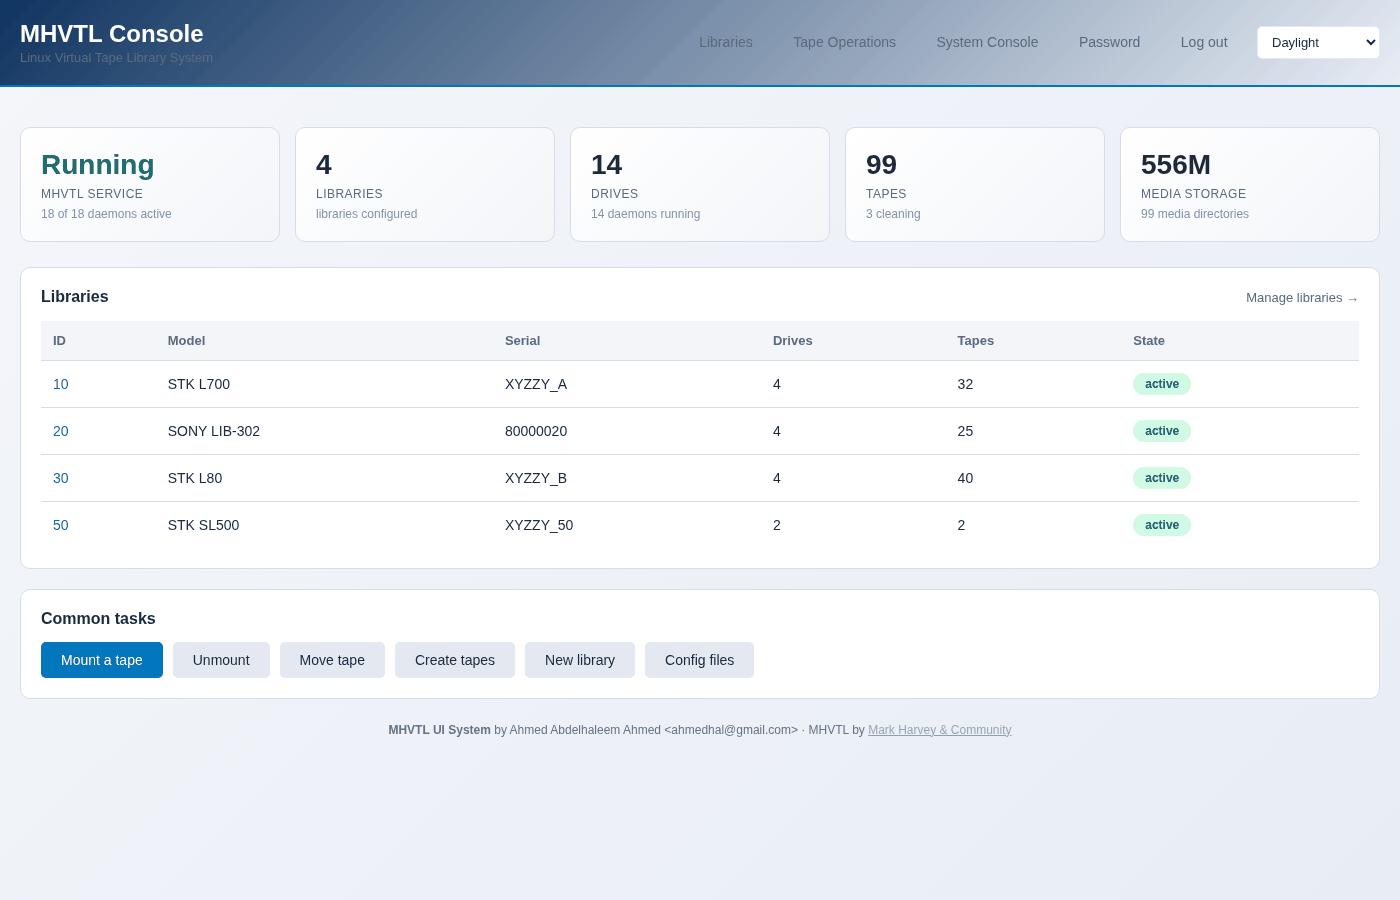
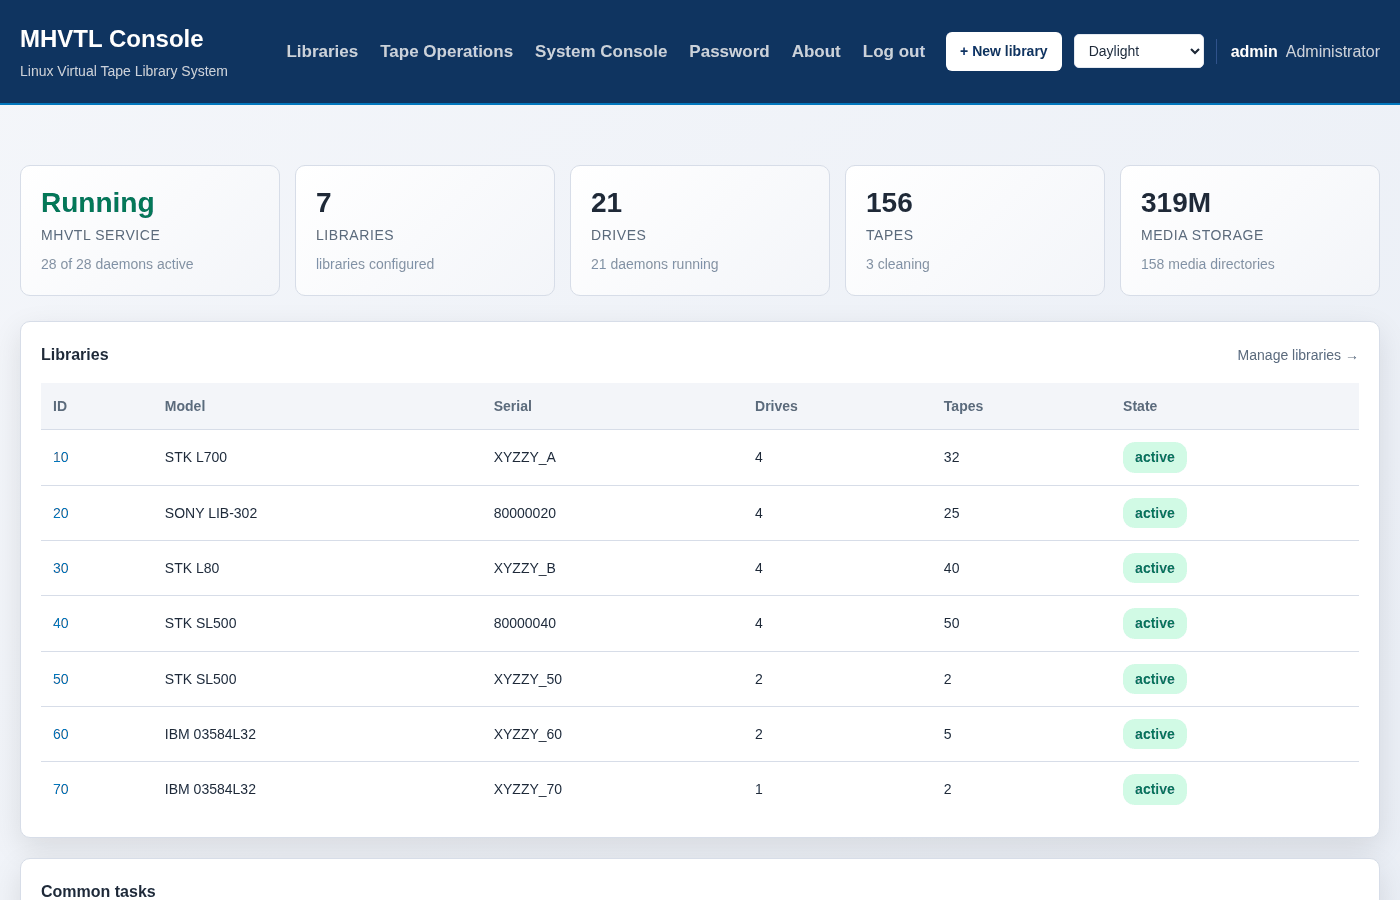
Front page: the current screenshots, and alt texts that match them
The four pictures on the front page are copied from the User Guide's shots
when the site is built. The 3.3.1 rebuild replaced the documentation trees but
not these, so the landing page was still showing September's screenshots - the
console before it was rebuilt onto one page frame - in front of pages that had
all been retaken.

Two alt texts described those old pictures: the dashboard's counts (four
libraries, fourteen drives, ninety-nine tapes) and the writing drive's figures
(173.8 MB, 14.8%). Both now say what is in the picture.

diff --git a/index.html b/index.html
@@ -163,7 +163,14 @@
             <p class="sub reveal">Every library at a glance, one page per library, and each drive while a backup writes to it.</p>
             <div class="shot reveal">
                 <div class="term-bar"><span class="dot r"></span><span class="dot y"></span><span class="dot g"></span><span class="term-title">The dashboard</span></div>
-                <img src="images/dashboard.png" alt="The dashboard: the MHVTL service running, four libraries, fourteen drives, ninety-nine tapes" loading="lazy">
+                <!-- The four screenshots on this page are copied from the User
+                     Guide's own _static/shots/ when the site is built, so the
+                     front page cannot show a picture the guide does not have.
+                     Retake them with docs/_kit/shots.py, and when you do, read
+                     these alt texts: they describe what is in the picture, so
+                     a new screenshot makes them wrong. Both of the ones below
+                     were, after the console was rebuilt onto one page frame. -->
+                <img src="images/dashboard.png" alt="The dashboard: the MHVTL service running, seven libraries, twenty-one drives, a hundred and fifty-six tapes" loading="lazy">
             </div>
             <div class="shots-grid">
                 <div class="shot reveal">
@@ -173,7 +180,7 @@
                 <div class="shots-stack">
                     <div class="shot reveal">
                         <div class="term-bar"><span class="dot r"></span><span class="dot y"></span><span class="dot g"></span><span class="term-title">A drive, writing</span></div>
-                        <img src="images/drive-writing.png" alt="Drive 31 writing G03001TA: 173.8 MB written, 14.8% of the tape" loading="lazy">
+                        <img src="images/drive-writing.png" alt="Drive 31 writing G03001TA: 378.1 MB written, 75.8% of the tape, the bar amber" loading="lazy">
                     </div>
                     <div class="shot reveal">
                         <div class="term-bar"><span class="dot r"></span><span class="dot y"></span><span class="dot g"></span><span class="term-title">Tapes</span></div>
